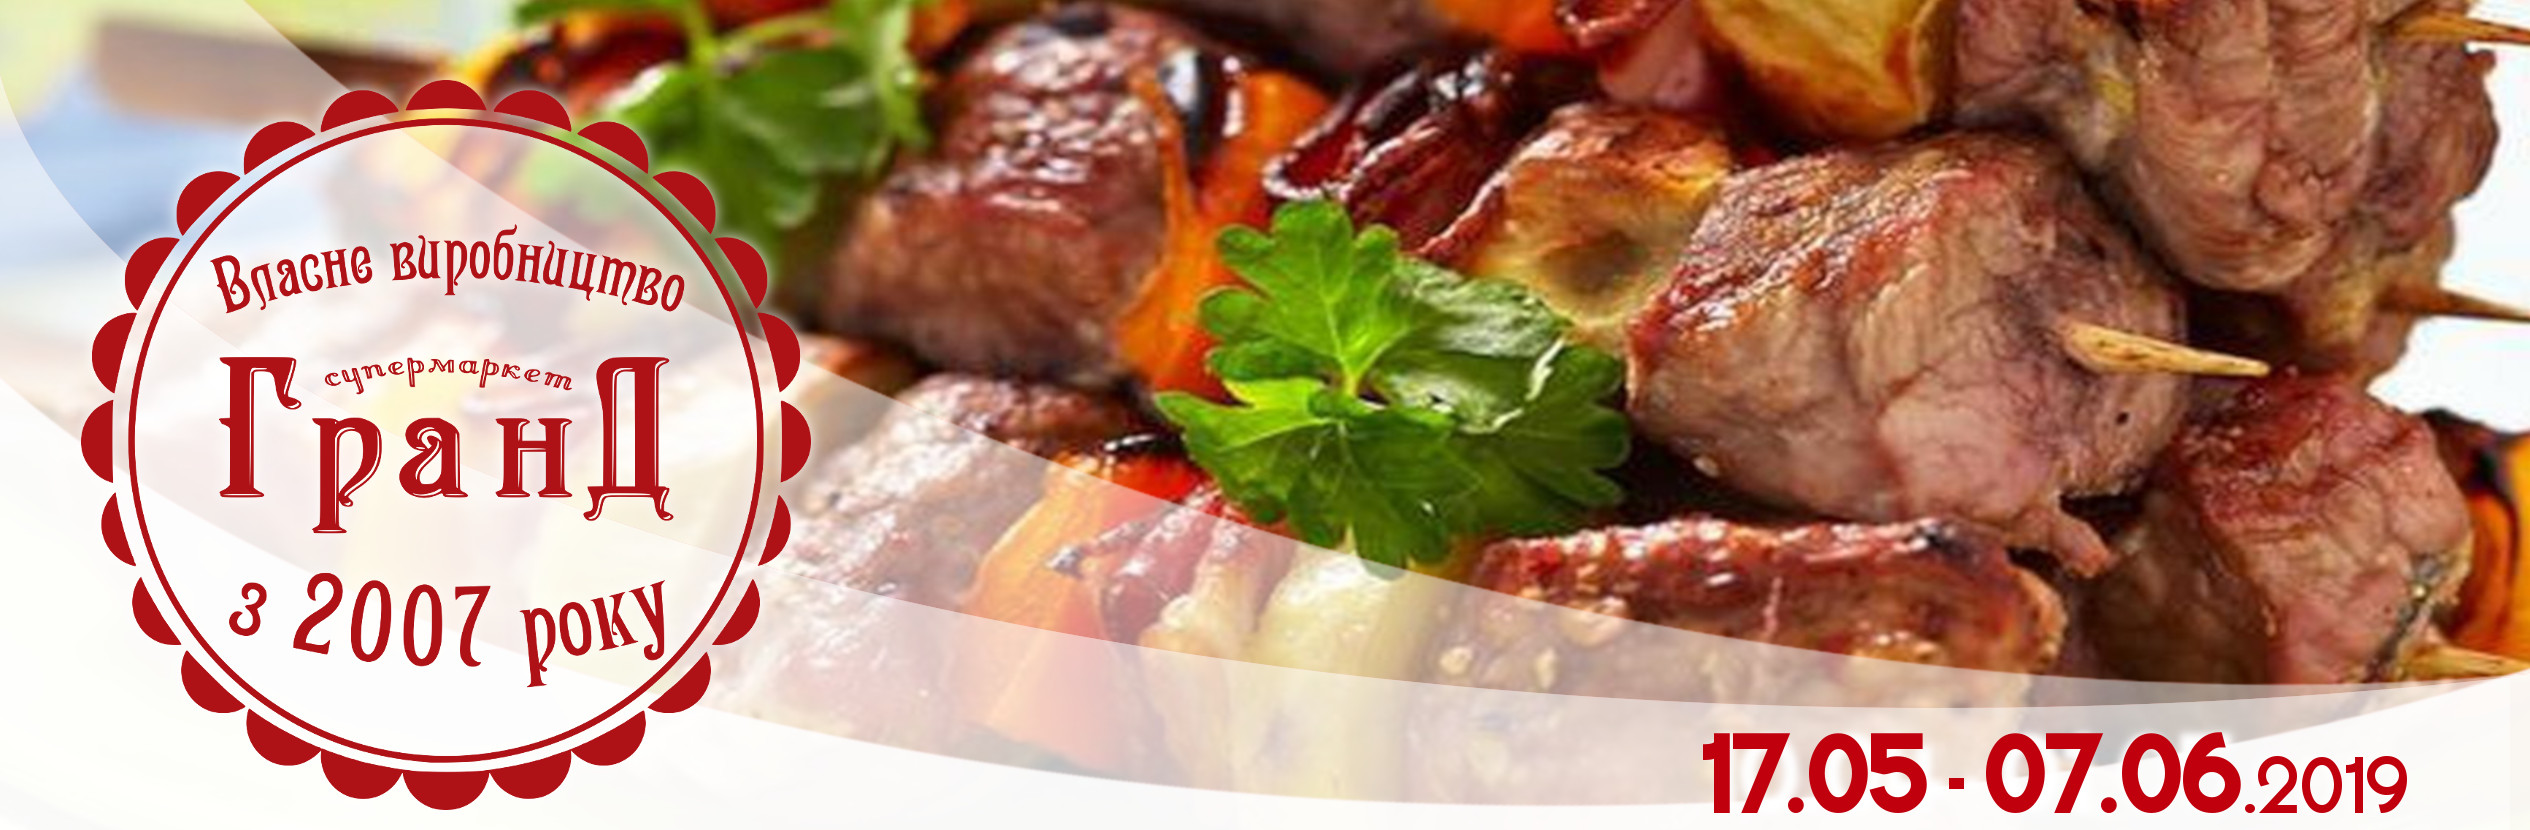
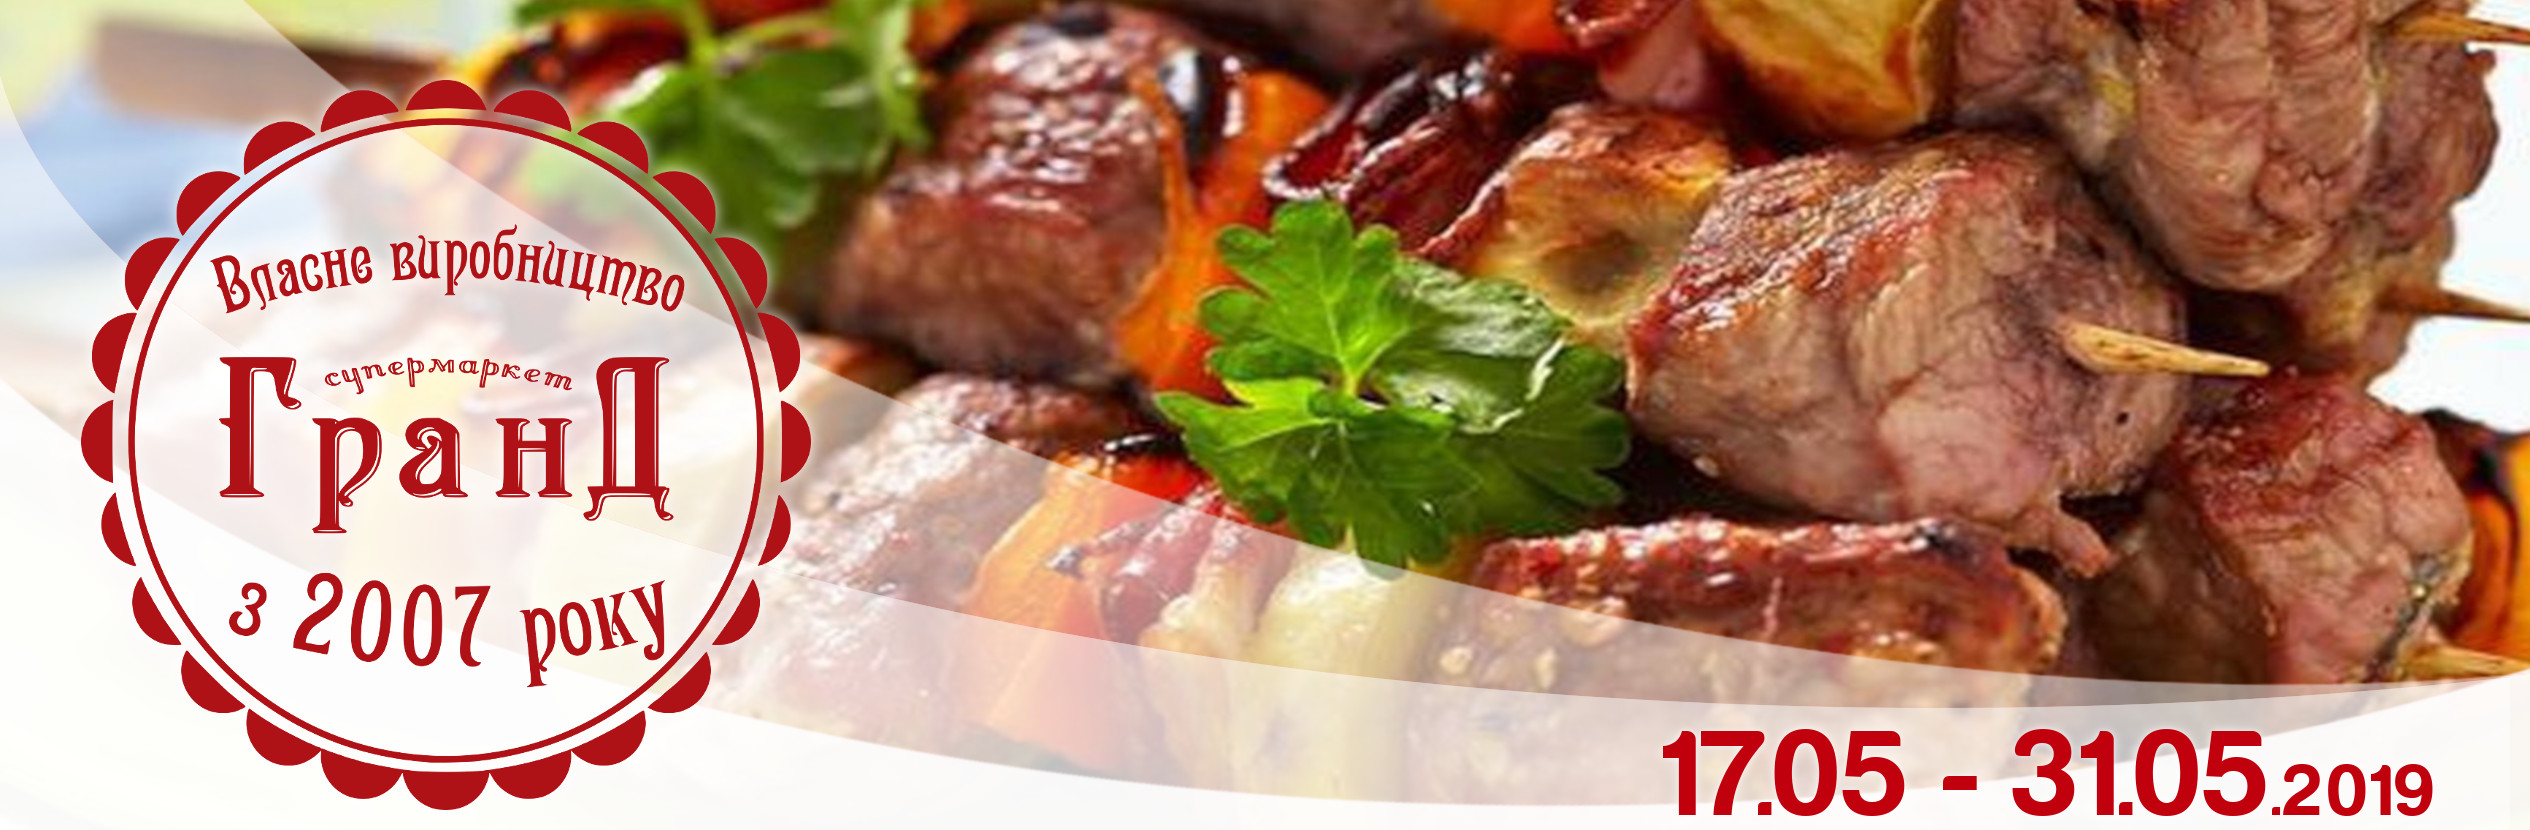
new buklet may final

Changed region(s): [[0.6557, 0.8735, 0.968, 0.994]]

diff --git a/grand/buklet/base1.js b/grand/buklet/base1.js
@@ -1,5 +1,5 @@
 let dataVid = '17.05'
-let dataDo = '07.06';
+let dataDo = '31.05';
 let base = [{
         pic: `16`,
         desc: `Торт "Творожно-кавовий"$100г	`,
